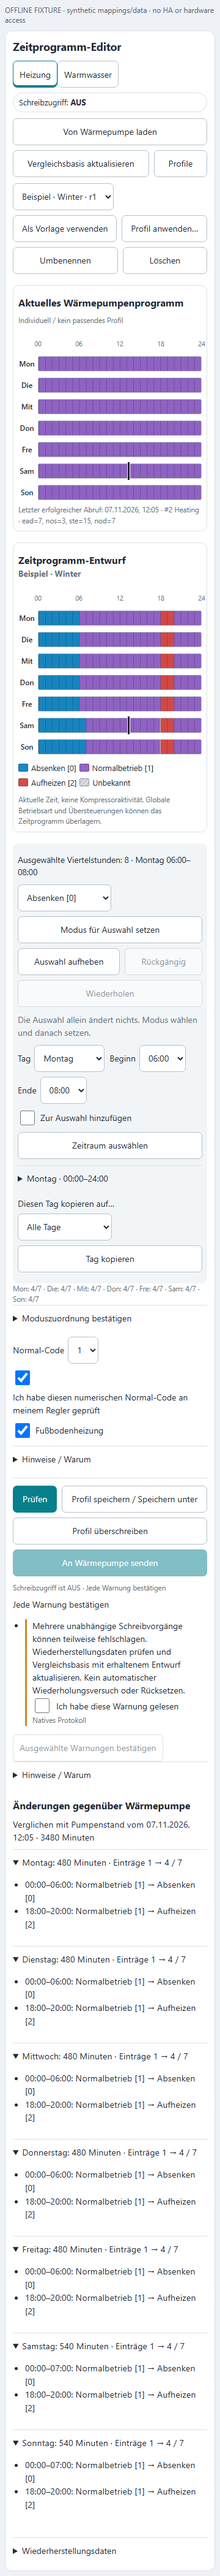
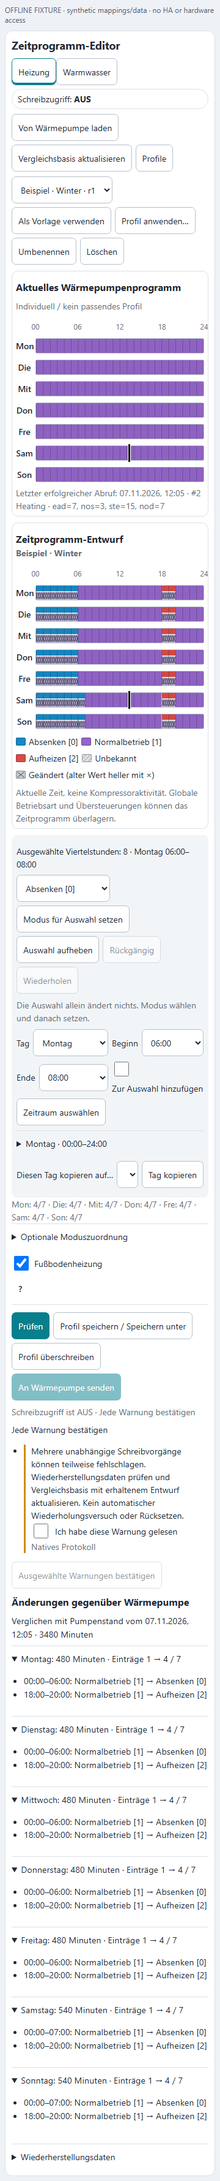
feat(schedule-editor): show replaced pump values in place on the draft grid (1.3.1)

diff --git a/custom_components/htha/frontend/htha-schedule-scratchpad-card.js b/custom_components/htha/frontend/htha-schedule-scratchpad-card.js
@@ -71,6 +71,8 @@ class LocalWeek {
   }
 }
 const DE = {
+  'Changed (old value shown lighter with ×)':'Geändert (alter Wert heller mit ×)',
+  'was':'war','now':'jetzt',
   'Schedule editor':'Zeitprogramm-Editor','Heating':'Heizung','Hot water':'Warmwasser','Profiles':'Profile',
   'Unsaved draft':'Ungespeicherter Entwurf','Custom / no matching saved profile':'Individuell / kein passendes Profil',
   'Load from pump':'Von Wärmepumpe laden','Refresh baseline':'Vergleichsbasis aktualisieren','Current heat-pump schedule':'Aktuelles Wärmepumpenprogramm',
@@ -375,16 +377,23 @@ class HthaScheduleScratchpadCard extends HTMLElement {
     const text=this.shadowRoot?.getElementById?.('selection-status');if(text)text.textContent=this.selectionText();
     const paint=this.shadowRoot?.getElementById?.('paint');if(paint)paint.disabled=!this._selection.cells.size || !!this._busy || !this._local;
   }
-  grid(week,editable=false,detail=false) {
+  grid(week,editable=false,detail=false,baseline=null) {
     const n=this.now(),days=detail?[this._day]:[0,1,2,3,4,5,6];
     const ruler=`<div class="ruler"><span class="day-label"></span><div>${Array.from({length:25},(_,h)=>`<span class="hour ${h%6?'minor':''}" style="left:${h/24*100}%">${h===24?'24':String(h).padStart(2,'0')}</span>`).join('')}</div></div>`;
     return `<div class="${detail?'day-scroll':'week-grid'}" ${editable?'role="grid" aria-label="'+esc(this.t('Draft schedule'))+'"':''}>${ruler}${days.map(d=>{
       const row=week[d],bars=toDraft([row]).entries[0];
+      const replaced=i=>editable && baseline?.[d]?.[i]!=null && baseline[d][i]!==row[i];
+      const description=i=>replaced(i)?`${this.t('was')} ${this.label(baseline[d][i])}, ${this.t('now')} ${this.label(row[i])}`:this.label(row[i]);
       return `<div class="week-row" role="row"><button class="day-label" data-day="${d}" title="${esc(this.days[d])}" ${this._busy?'disabled':''}>${esc(this.days[d].slice(0,3))}</button><div class="timeline" data-row="${d}">
       ${bars.map(e=>`<span class="bar ${this.styleMode(e.state)}" style="left:${slot(e.start)/96*100}%;width:${(slot(e.end)-slot(e.start))/96*100}%" title="${esc(`${this.days[d]} ${e.start}–${e.end}: ${this.label(e.state)}`)}"></span>`).join('')}
-      ${editable?row.map((mode,i)=>`<button role="gridcell" tabindex="${(this._focus?.day??this._day)===d && (this._focus?.i??0)===i?'0':'-1'}" class="cell ${this._selection.cells.has(`${d}:${i}`)?'selected':''}" data-cell="${d}:${i}" aria-selected="${this._selection.cells.has(`${d}:${i}`)}" aria-label="${esc(`${this.days[d]} ${time(i)}–${time(i+1)} ${this.label(mode)}`)}" title="${esc(`${time(i)}–${time(i+1)} ${this.label(mode)}`)}" ${this._busy?'disabled':''}></button>`).join(''):''}
+      ${row.map((mode,i)=>replaced(i)?`<span aria-hidden="true" class="replaced old-${this.styleMode(baseline[d][i])}" style="left:${i/96*100}%;width:${100/96}%">${this.replacedMark()}</span>`:'').join('')}
+      ${editable?row.map((mode,i)=>`<button role="gridcell" tabindex="${(this._focus?.day??this._day)===d && (this._focus?.i??0)===i?'0':'-1'}" class="cell ${replaced(i)?'changed':''} ${this._selection.cells.has(`${d}:${i}`)?'selected':''}" data-cell="${d}:${i}" aria-selected="${this._selection.cells.has(`${d}:${i}`)}" aria-label="${esc(`${this.days[d]} ${time(i)}–${time(i+1)} ${description(i)}`)}" title="${esc(`${time(i)}–${time(i+1)} ${description(i)}`)}" ${this._busy?'disabled':''}></button>`).join(''):''}
       <div class="ticks"></div><span class="now" data-now="${d}" style="left:${n.percent}%" ${n.day!==d?'hidden':''} title="${esc(this.t('Current time; not compressor activity. Global mode and overrides can supersede the time program.'))}"></span></div></div>`;
     }).join('')}</div>`;
+  }
+  replacedMark() {
+    // Stretch the cross to each slot, including the narrow phone overview.
+    return '<svg aria-hidden="true" viewBox="0 0 10 20" preserveAspectRatio="none"><path d="M1 2L9 18M9 2L1 18" vector-effect="non-scaling-stroke"/></svg>';
   }
   diffHTML() {
     const diff=this._model?.diff;if(!diff)return '';
@@ -422,17 +431,23 @@ class HthaScheduleScratchpadCard extends HTMLElement {
       @media(max-width:600px){ha-card{padding:12px;border-radius:12px}h2{font-size:1.1rem}.minor{display:none!important}.week-row,.ruler{grid-template-columns:28px minmax(0,1fr);gap:4px}.schedule{padding:8px}.week-grid .cell{pointer-events:none;visibility:hidden}.week-grid .timeline{height:25px}.phone-hint{display:block}.controls label{flex-wrap:wrap}.controls select{max-width:100%}button,select,input{min-height:44px}.controls button{flex:0 1 auto}.day-label{min-height:30px}.send-review{inset:12px;max-height:calc(100vh - 24px)}.legend{gap:5px}.tabs .status{width:100%}.toolbar{padding:8px}.mapping-grid label{flex-wrap:wrap}}
       :host{min-width:0}small{font-size:.875rem;overflow-wrap:anywhere}.controls>*{min-width:0}.controls label{max-width:100%}.controls select{min-width:0}section{margin:12px 0}.controls,.tabs,.legend{margin:8px 0;gap:6px}.help{border:0;padding:4px 0}.help>summary{display:flex;align-items:center;justify-content:center;width:28px;height:28px;min-height:28px;border:1px solid var(--divider-color);border-radius:50%;font-weight:600;list-style:none}.help>summary::-webkit-details-marker{display:none}.help[open]>summary{background:var(--secondary-background-color)}.day-label{font-size:.875rem}.ruler{font-size:.75rem}.legend{font-size:.875rem}
       @media(max-width:600px){ha-card{padding:10px}.controls label{flex:1 1 140px}.controls label select{flex:1;min-width:0}section{margin:10px 0}.schedule{padding:6px}.send-review dl{grid-template-columns:1fr}.status{font-size:.875rem}.ruler{margin-top:14px}}
-      @media(prefers-contrast:more){.bar{border:1px solid currentColor}.cell.selected{outline-width:3px}}
+      /* New color remains above; the lower 60% shows the replaced pump mode. */
+      .old-setback{--old-color:#1689c6}.old-normal{--old-color:#9465c9}.old-boost{--old-color:#db4a46}.old-minimum{--old-color:#91999f}.old-charging{--old-color:#37965c}.old-unknown{--old-color:var(--secondary-text-color,#657080)}
+      .replaced{position:absolute;top:40%;bottom:0;z-index:1;background:color-mix(in srgb,var(--old-color) 42%,var(--card-background-color,#fff));border-top:1px solid var(--card-background-color,#fff)}
+      .replaced,.replaced *,.changed-key,.changed-key *{pointer-events:none}
+      .replaced svg,.changed-key svg{display:block;width:100%;height:100%;fill:none;stroke:var(--primary-text-color,#202937);stroke-width:.8}
+      .changed-key{background:color-mix(in srgb,var(--primary-text-color,#202937) 25%,var(--card-background-color,#fff))}
+      @media(prefers-contrast:more){.replaced{background:color-mix(in srgb,var(--old-color) 60%,var(--card-background-color,#fff))}.replaced svg,.changed-key svg{stroke-width:1.4}.bar{border:1px solid currentColor}.cell.selected{outline-width:3px}}
     </style><ha-card><h2>${t('Schedule editor')}</h2><div class="tabs" role="tablist"><div>${['heating','hot_water'].map(c=>`<button role="tab" data-category="${c}" aria-selected="${c===this._category}" ${busy}>${t(c==='heating'?'Heating':'Hot water')}</button>`).join('')}</div><span class="status">${t('Allow writes')}: <b>${t(m.writes_enabled?'ON':'OFF')}</b></span></div>
       <div class="controls"><button id="load" ${busy}>${t('Load from pump')}</button><button id="refresh" ${busy} ${!metadata?'disabled':''}>${t('Refresh baseline')}</button><button id="catalog" ${busy}>${t('Profiles')}</button></div>
       <div class="controls"><select id="profiles" aria-label="${t('Profiles')}" ${busy}><option value="">${t('Profiles')}</option>${this._profiles.map(p=>`<option value="${esc(p.id)}" ${p.id===this._profileId?'selected':''}>${p.read_only?t(p.name):esc(p.name)} · ${p.read_only?t('Built-in, read-only'):`r${p.revision}`}</option>`).join('')}</select><button id="profile-load" ${busy} ${!chosen?'disabled':''}>${t('Use as starting point')}</button><button id="profile-apply" ${busy} ${!chosen?'disabled':''}>${t('Apply profile…')}</button><button id="rename" ${busy} ${!chosen || chosen.read_only?'disabled':''}>${t('Rename')}</button><button id="delete" ${busy} ${!chosen || chosen.read_only?'disabled':''}>${t('Delete')}</button></div>
       ${chosen?.read_only || this._profile?.read_only?`<small>${t(this.index===2?'Factory default: Monday–Sunday 00:00–24:00 Normal. Unspecified heating periods remain Normal.':'Factory default: Monday–Sunday 00:00–24:00 On. Unspecified hot-water periods are Off (minimum maintenance at WW_min, +5 K).')} ${t('web control 321 manual, pp.10–11. Save as creates an editable copy.')}</small>`:''}
       ${m.library_error?`<p class="error">${t('This library is damaged or has an unsupported version. Repair the HA Store from a backup; no approval was restored.')}</p>`:''}
       <section class="schedule"><h3>${t('Current heat-pump schedule')}</h3><small class="profile-name">${esc(loaded && m.current_state==='read'?(m.current_profile_names?.join(', ')||this.t('Custom / no matching saved profile')):this.t('Current state unavailable'))}</small>${this.grid(current)}<small>${t('Last successful read')}: ${esc(this.stamp(loaded?m.baseline_read_at:null))} · ${esc(metadata?`#${metadata.index} ${metadata.name} · ead=${metadata.ead}, nos=${metadata.nos}, ste=${metadata.ste}, nod=${metadata.nod}`:this.t('Unknown'))}</small></section>
-      <section class="schedule"><h3>${t('Draft schedule')} <small class="profile-name">${esc(this.draftName())}</small></h3>${this.grid(draft,true)}<div class="legend">${Array.from({length:nos},(_,i)=>`<span><i class="swatch ${this.styleMode(i)}"></i>${esc(this.label(i))}</span>`).join('')}<span><i class="swatch unknown"></i>${t('Unknown')}</span></div><small>${t('Current time; not compressor activity. Global mode and overrides can supersede the time program.')}</small></section>
+      <section class="schedule"><h3>${t('Draft schedule')} <small class="profile-name">${esc(this.draftName())}</small></h3>${this.grid(draft,true,false,current)}<div class="legend">${Array.from({length:nos},(_,i)=>`<span><i class="swatch ${this.styleMode(i)}"></i>${esc(this.label(i))}</span>`).join('')}<span><i class="swatch unknown"></i>${t('Unknown')}</span><span><i class="swatch changed-key" aria-hidden="true">${this.replacedMark()}</i>${t('Changed (old value shown lighter with ×)')}</span></div><small>${t('Current time; not compressor activity. Global mode and overrides can supersede the time program.')}</small></section>
       <div class="toolbar"><p id="selection-status" class="selection-status" aria-live="polite">${esc(this.selectionText())}</p><div class="controls"><select id="mode" aria-label="${t('Mode')}" ${busy}>${Array.from({length:nos},(_,i)=>`<option value="${i}" ${this._mode===i?'selected':''}>${esc(this.label(i))}</option>`).join('')}</select><button id="paint" ${busy} ${!this._selection.cells.size || !this._local?'disabled':''}>${t('Set mode for selection')}</button><button id="clear">${t('Clear selection')}</button><button id="undo" ${busy} ${!this._local?.undo.length?'disabled':''}>${t('Undo')}</button><button id="redo" ${busy} ${!this._local?.redo.length?'disabled':''}>${t('Redo')}</button></div>
       <p class="phone-hint muted">${t('Selection alone makes no changes. Choose a mode, then Set mode.')}</p><div class="controls"><label>${t('Day')} <select id="day">${this.days.map((day,d)=>`<option value="${d}" ${d===this._day?'selected':''}>${esc(day)}</option>`).join('')}</select></label><label>${t('Start')} <select id="range-start">${options(false,this._rangeStart??24)}</select></label><label>${t('End')} <select id="range-end">${options(true,this._rangeEnd??32)}</select></label><label><input type="checkbox" id="add-selection" ${this._add?'checked':''}>${t('Add selection')}</label><button id="select-range">${t('Select range')}</button></div>
-      <details id="day-detail" ${opens.has('day-detail')?'open':''}><summary>${esc(this.days[this._day])} · 00:00–24:00</summary><div class="scroll" data-scroll="detail">${this.grid(draft,true,true)}</div><ul>${toDraft(draft).entries[this._day].map(e=>`<li>${esc(e.start)}–${esc(e.end)}: ${esc(this.label(e.state))}</li>`).join('')}</ul></details>
+      <details id="day-detail" ${opens.has('day-detail')?'open':''}><summary>${esc(this.days[this._day])} · 00:00–24:00</summary><div class="scroll" data-scroll="detail">${this.grid(draft,true,true,current)}</div><ul>${toDraft(draft).entries[this._day].map(e=>`<li>${esc(e.start)}–${esc(e.end)}: ${esc(this.label(e.state))}</li>`).join('')}</ul></details>
       <div class="controls"><label>${t('Copy this day to…')} <select id="copy-target"><option value="all">${t('All days')}</option><option value="weekdays">${t('Weekdays')}</option><option value="weekend">${t('Weekend')}</option><option value="custom">${t('Selected days')}</option></select></label><button id="copy" data-copy="${this._day}" ${busy} ${!this._local?'disabled':''}>${t('Copy day')}</button></div><div id="copy-days" hidden>${this.days.map((day,d)=>`<label><input type="checkbox" data-copy-day="${d}">${esc(day)}</label>`).join('')}</div></div>
       ${this._draft?`<small>${this._draft.entries.map((day,d)=>`${this.days[d].slice(0,3)}: ${day.length}/${Math.min(metadata?.ead||7,7)}`).join(' · ')} ${unknown?' · '+t('Resolve unknown cells explicitly before saving or sending.'):''}</small>`:''}
       <details id="mapping-detail" ${opens.has('mapping-detail')?'open':''}><summary>${t(m.mapping_valid?'Optional mode mapping override':'Unverified mode mapping')}</summary><p>${t('Verified default for firmware 2.03N; override only after checking your controller. Labels never translate numeric payloads.')}</p><div class="mapping-grid">${Array.from({length:nos},(_,i)=>`<label>${t('Mode')} ${i}<select data-map="${i}" ${busy}><option value="">${t('Unverified')}</option>${semanticChoices.map(s=>`<option value="${s}" ${mapping?.[String(i)]===s?'selected':''}>${t(SEMANTIC_LABELS[s])}</option>`).join('')}</select></label>`).join('')}</div><button id="mapping-save" ${busy} ${!metadata?'disabled':''}>${t('Confirm mode mapping')}</button></details>

diff --git a/custom_components/htha/frontend/htha-heatpump-strategy.js b/custom_components/htha/frontend/htha-heatpump-strategy.js
@@ -10,7 +10,7 @@
  * matched by domain + translation_key), so it works with any entity_ids and
  * with several heat pumps. Built-in cards and the bundled schedule editor are used.
  */
-const HTHA_VERSION = "1.3.0";
+const HTHA_VERSION = "1.3.1";
 
 const ROLES = {
   operating_state: "sensor.operating_state",

diff --git a/README.md b/README.md
@@ -123,9 +123,9 @@ config_entry_id: YOUR_HTHA_CONFIG_ENTRY_ID
 No manual resource is normally needed. Both scripts are served under `/htha_frontend/`, loaded through the frontend and registered as versioned JavaScript modules in storage-mode resources. Existing matching resources are updated; only resources created by htha are removed when its last entry is deleted. YAML resource lists are not edited; if explicit resources are needed, add these with `type: module`:
 
 ```yaml
-- url: /htha_frontend/htha-heatpump-strategy.js?v=1.3.0
+- url: /htha_frontend/htha-heatpump-strategy.js?v=1.3.1
   type: module
-- url: /htha_frontend/htha-schedule-scratchpad-card.js?v=1.3.0
+- url: /htha_frontend/htha-schedule-scratchpad-card.js?v=1.3.1
   type: module
 ```
 
@@ -134,6 +134,8 @@ No manual resource is normally needed. Both scripts are served under `/htha_fron
 ![Weekly schedule editor](docs/schedule-editor-evidence/1100-en-light.png)
 
 Edit recurring quarter-hour cells in a weekly grid, select multiple cells, assign modes and copy days. Validate to see findings and a diff before sending. Save personal profiles or start from the read-only **Factory default (Heliotherm)** profiles for heating and hot water.
+
+Changed draft slots keep the new mode color in the top 40%; the lower part shows the replaced pump mode tinted against the card background with an ×. Both the week overview and expanded day update as you edit, using the current pump schedule already available in the card. Unknown baseline slots have no replacement mark.
 
 Verified mapping for **firmware 2.03N**: heating **0 Setback / 1 Normal / 2 Boost**; hot water **0 Off / 1 On**. Other firmware or incompatible metadata requires a verified mapping override. Hot water Off retains the controller's minimum-temperature maintenance; Normal does not mean continuous compressor operation.
 

diff --git a/docs/schedule-scratchpad.md b/docs/schedule-scratchpad.md
@@ -4,7 +4,7 @@ The card keeps `custom:htha-schedule-scratchpad-card`, `entity` and
 `config_entry_id`. The integration auto-loads the card and manages its storage-mode
 resource. The strategy shows it in the schedule section; `schedule_editor: false`
 selects the read-only view. For an explicit YAML resource, use
-`/htha_frontend/htha-schedule-scratchpad-card.js?v=1.3.0` (JavaScript Module).
+`/htha_frontend/htha-schedule-scratchpad-card.js?v=1.3.1` (JavaScript Module).
 See [dashboard example](../dashboards/schedule-editor-v2.yaml).
 Existing binary schedule helpers remain separate.
 
